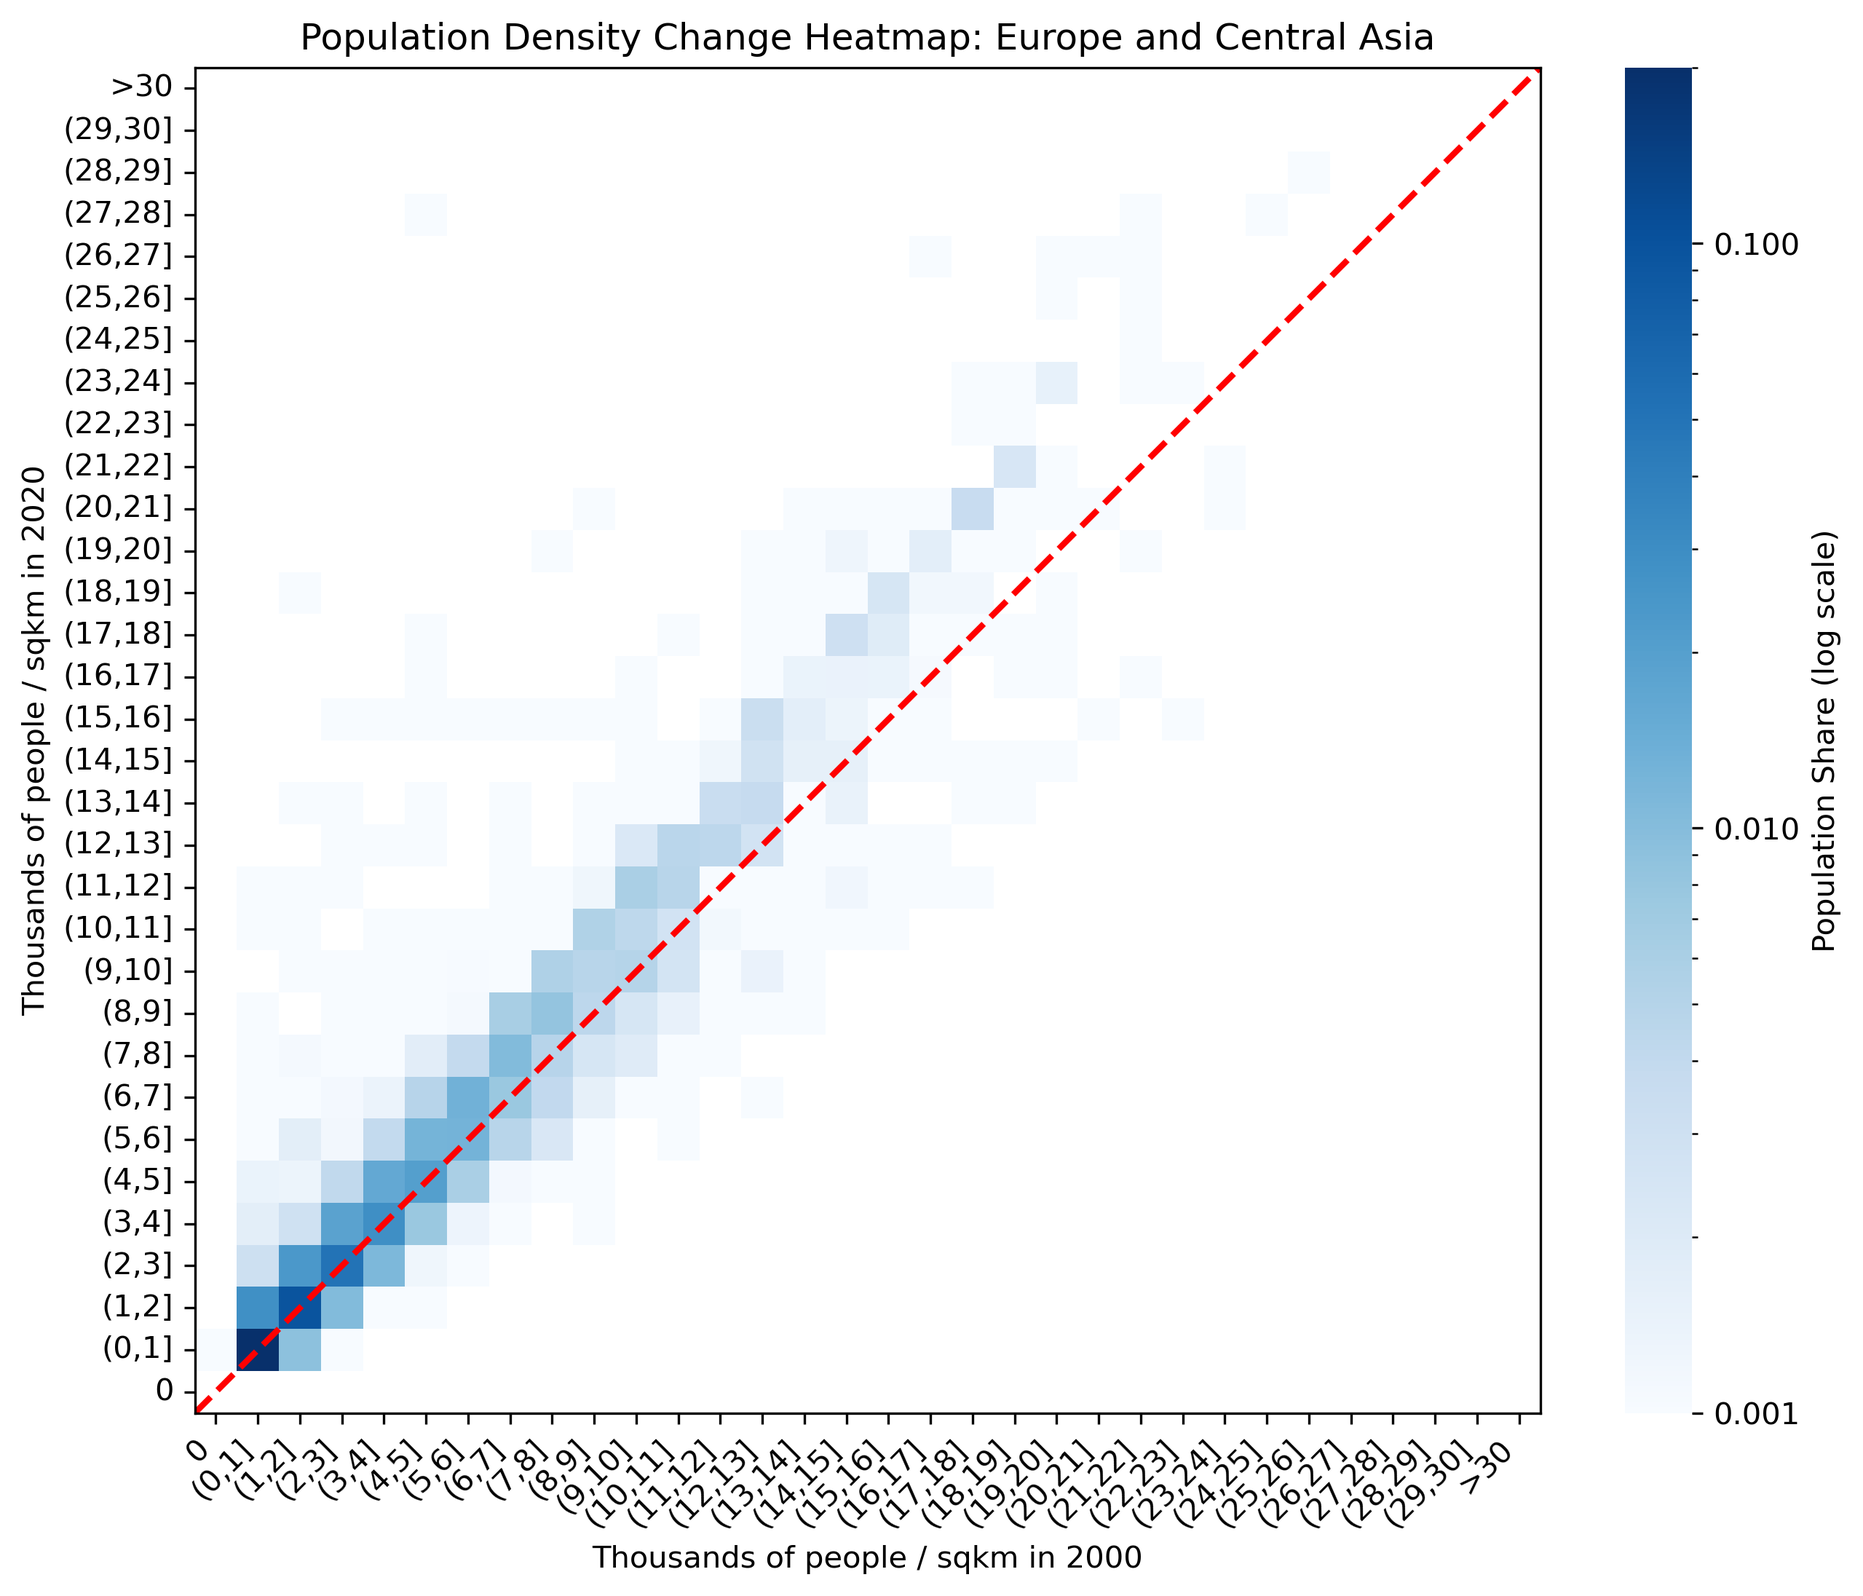
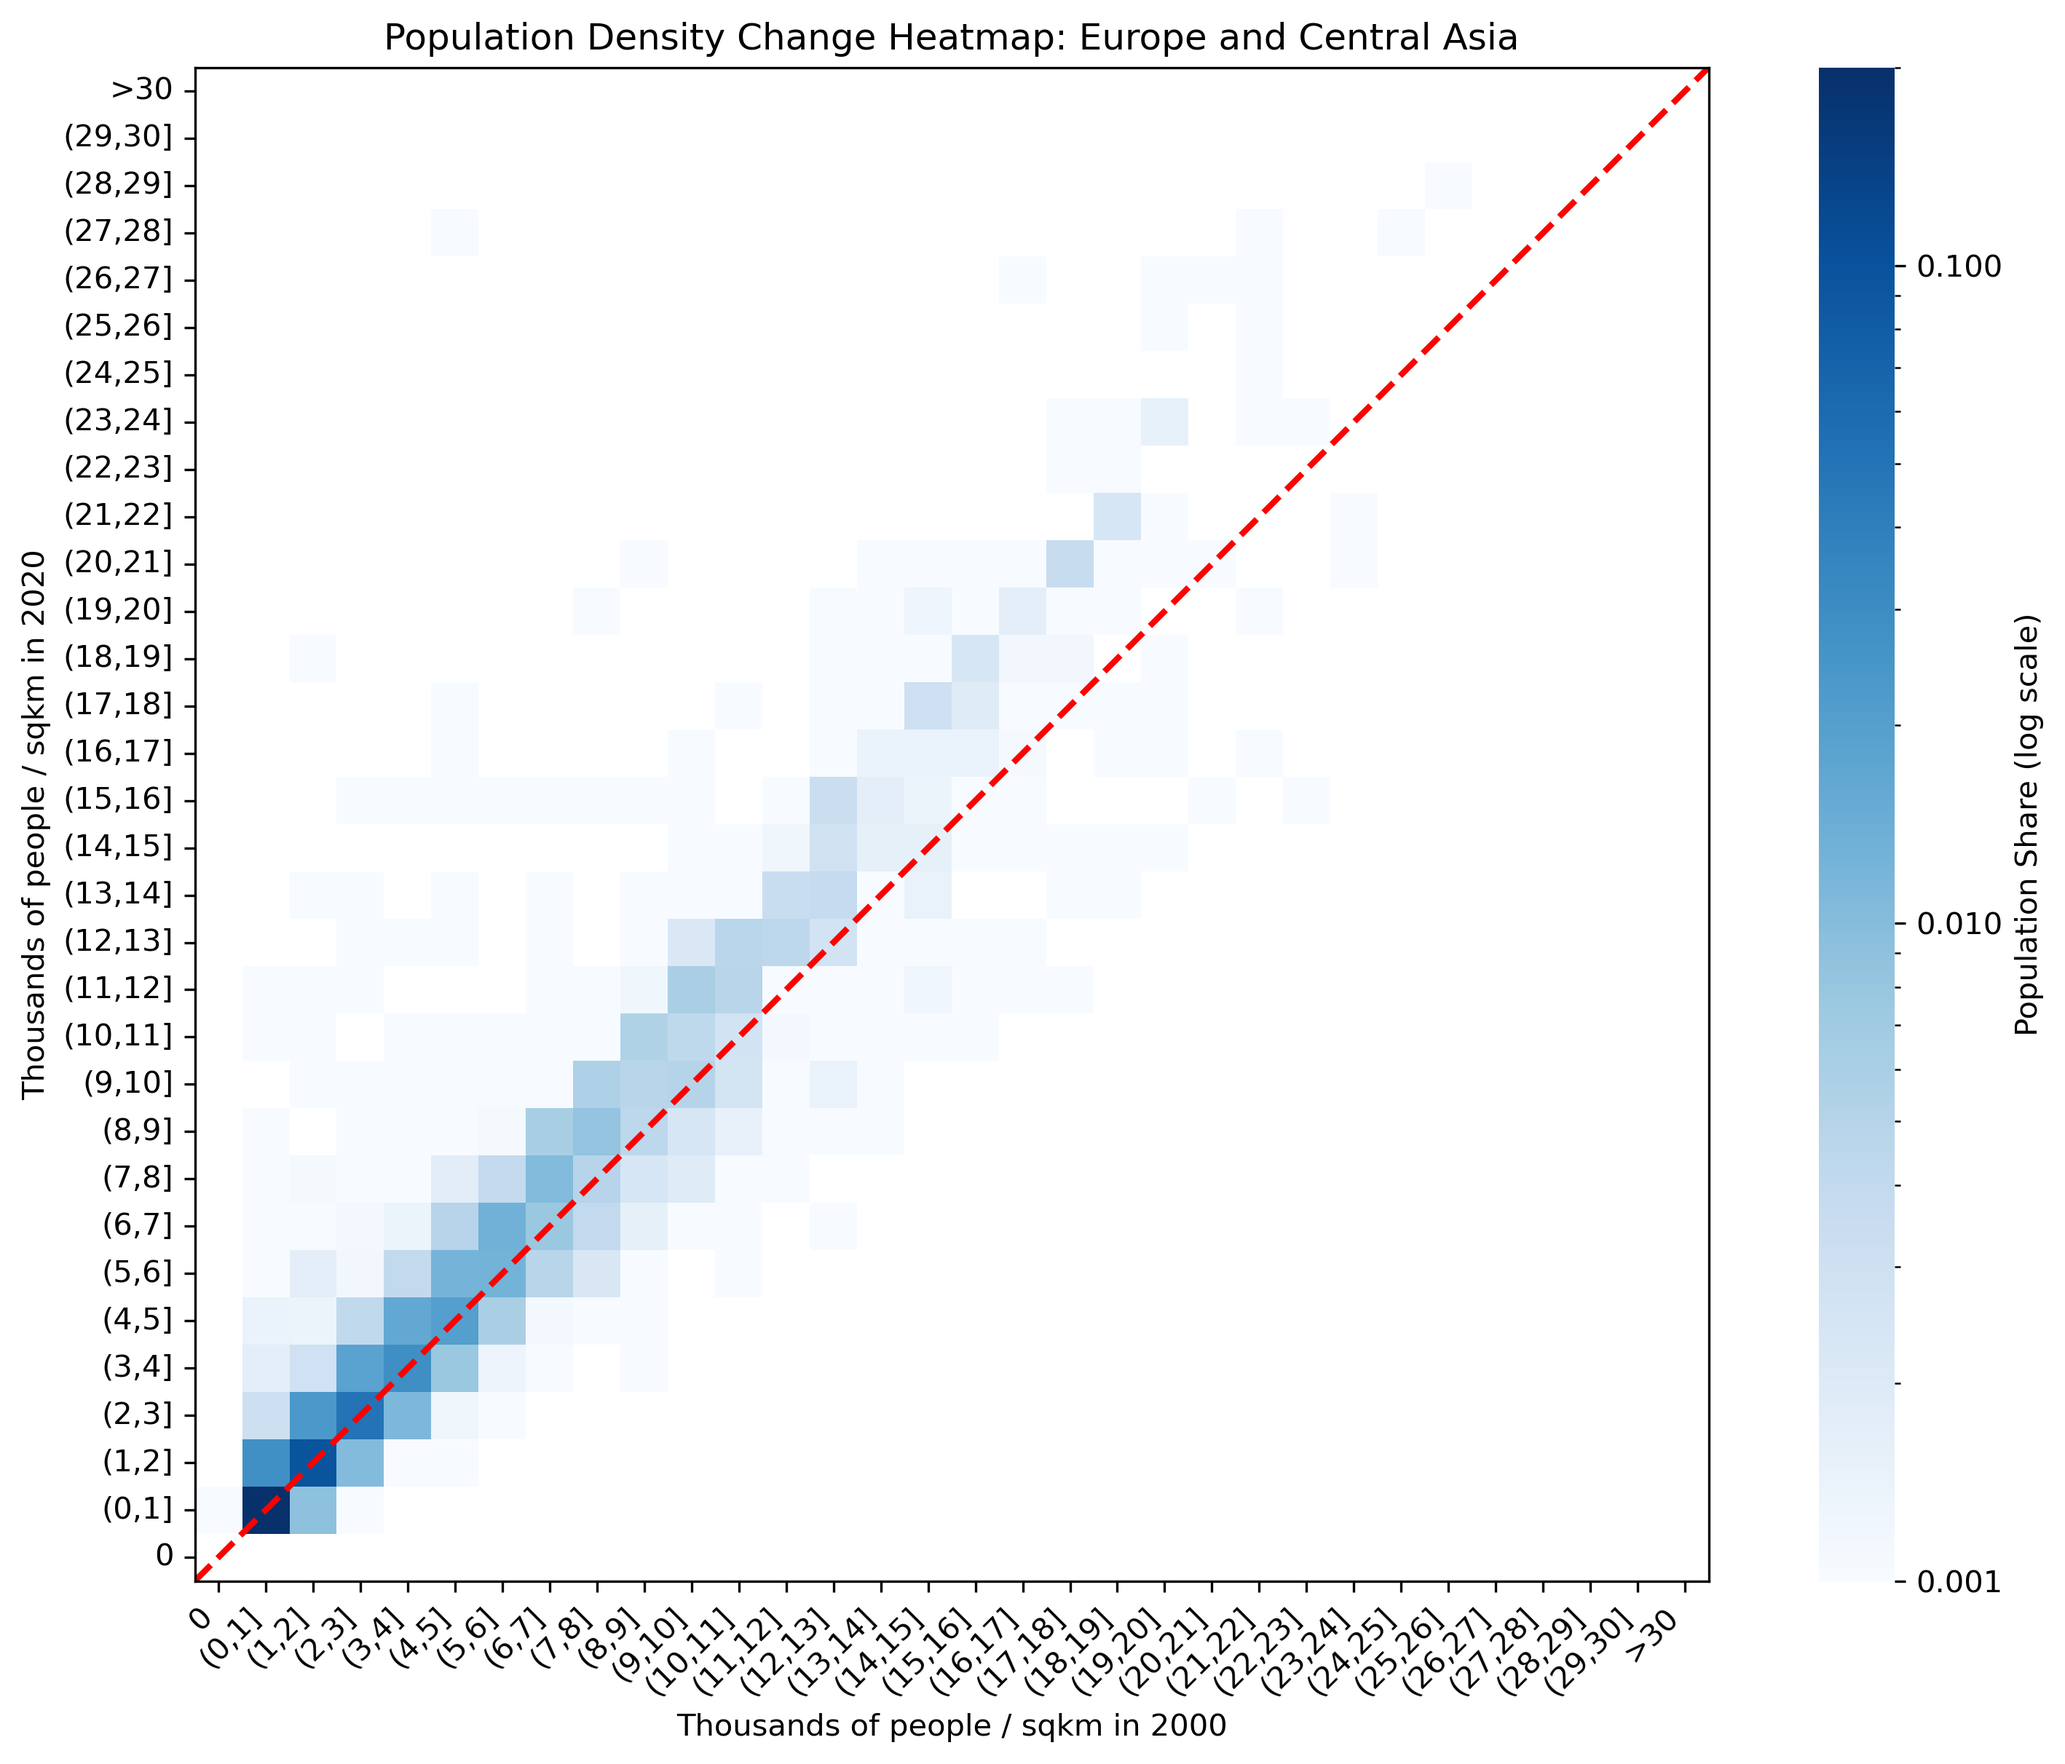
changed fig size

diff --git a/heatmaps.py b/heatmaps.py
@@ -62,7 +62,7 @@ def generate_population_heatmap(file_path, output_folder=heatmaps + r"\populatio
     heatmap_data = df_grouped.pivot(index=bin2, columns=bin1, values="Population_Share")
 
     # Create figure
-    plt.figure(figsize=(10, 8))
+    plt.figure(figsize=(13, 9))
     ax = sns.heatmap(
         heatmap_data, cmap="Blues", square=True,  norm=LogNorm(vmin=0.001, vmax=0.2), 
         cbar_kws={'label': 'Population Share (log scale)','format':'%4.3f'}

diff --git a/population_proportion.py b/population_proportion.py
@@ -58,7 +58,7 @@ def generate_population_shift_plot(file_path, output_folder, bin1="bin1980", bin
                 proportions[shift].append(pop_x_shift / total_pop_x if total_pop_x > 0 else np.nan)
     
     # Plot
-    plt.figure(figsize=(10, 6))
+    plt.figure(figsize=(13, 9))
     for shift in shifts:
         plt.plot(x_values, proportions[shift], label=f"Threshold: x-{shift}")
     
